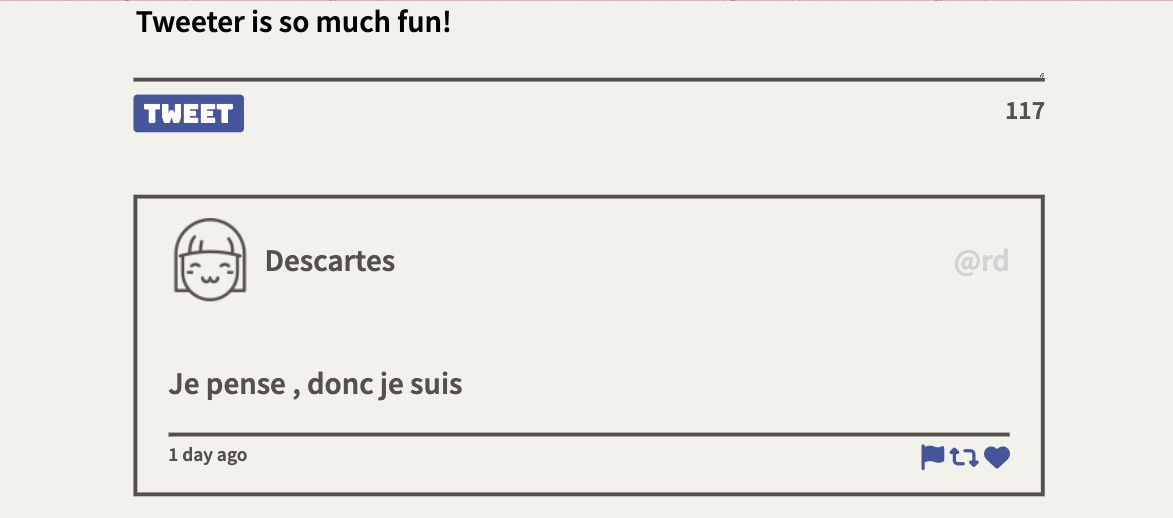
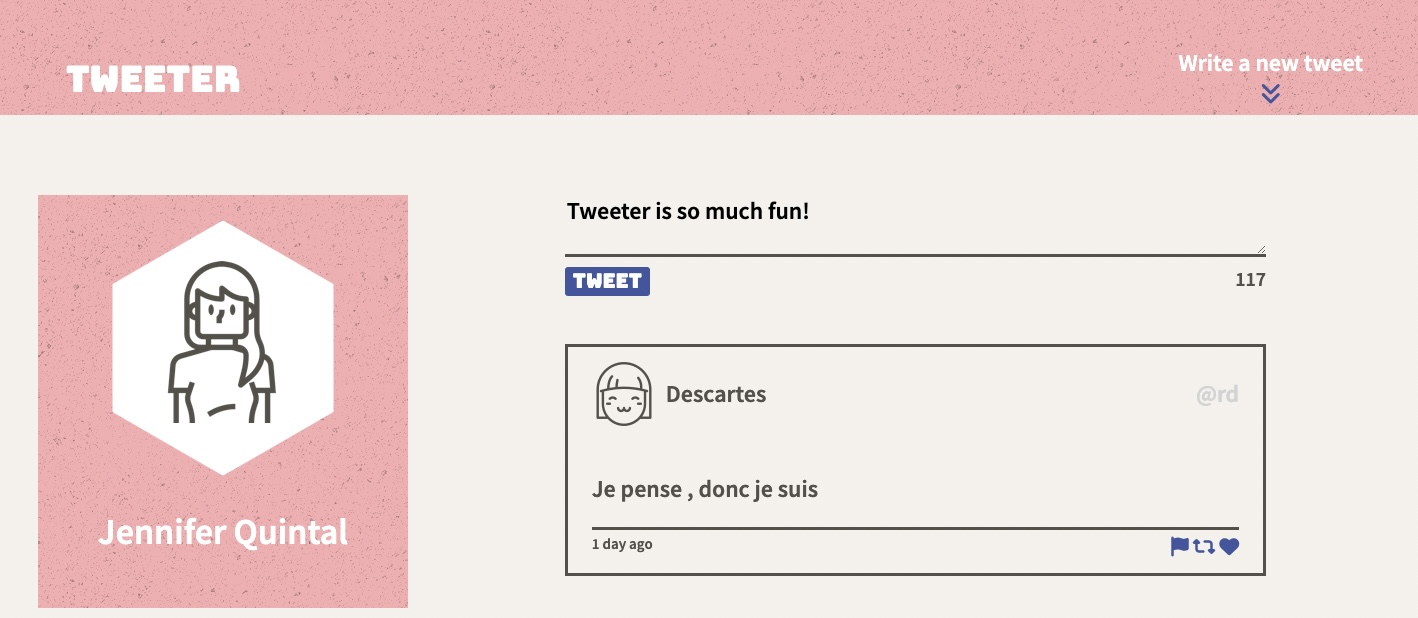
final changes with new screenshots

diff --git a/public/index.html b/public/index.html
@@ -57,8 +57,10 @@
       <span class="title">tweeter</span>
       <!-- <span class="titlenote">Write a new tweet</span> -->
       <div class="titlenote">
-        <span>Write a new tweet</span>
-        <i class="fa-solid fa-angles-down"></i>
+        <span class="write-a-new-tweet">Write a new tweet</span>
+        <button class="nav-header-button">
+          <i class="fa-solid fa-angles-down"></i>
+        </button>
       </div>
     </nav>
     <main class="main-container">
@@ -84,7 +86,9 @@
               ></textarea>
               <div id="tweet-button-count">
                 <div id="tweet-button">
-                  <button type="submit">Tweet</button>
+                  <button class="tweet-submit-button" type="submit">
+                    Tweet
+                  </button>
                 </div>
                 <div id="count">
                   <output name="counter" class="counter" for="tweet-text"

diff --git a/public/styles/layout.css b/public/styles/layout.css
@@ -19,7 +19,6 @@ html {
 body {
   color: #545149;
   background-color: #f8adb0;
-  /* font-size: 24px; */
   font-family: "Source Sans Pro", sans-serif;
 }
 
@@ -42,26 +41,25 @@ body {
   display: flex;
   justify-content: center;
   font-size: 24px;
+  width: 100%;
 }
 
 @media only screen and (min-width: 1024px) {
   .main-container {
     display: flex;
+    flex-direction: row;
+    justify-content: space-evenly;
   }
 
   .body-tweets-container {
     max-width: 65vw;
     padding: 25px;
+    padding-top: 200px;
   }
 }
 
-/* @media only screen and (min-width: 768px) and (max-width: 1024px) {
+@media only screen and (max-width: 1024px) {
   .main-container {
-    display: flex;
-    padding: 25px;
+    padding: 0;
   }
-
-  .body-tweets-container {
-    max-width: 65vw;
-  }
-} */
+}

diff --git a/public/scripts/client.js b/public/scripts/client.js
@@ -35,7 +35,7 @@ const createTweetElement = function (tweetData) {
       </div>
       <div class="handle">${tweetData.user.handle}</div>
     </header>
-    <p>${escape(tweetData.content.text)}</p>
+    <p class="tweet-words">${escape(tweetData.content.text)}</p>
     <footer class="tweet-footer">
     <div class="time-ago">${escape(ago)}</div>
       <div id="icons-footer">
@@ -114,8 +114,8 @@ $tweetForm.on("submit", (event) => {
       data: urlencoded,
       success: (response) => {
         // fetch the tweets again
-       $(".counter").text("140");
-       $("textarea").val("");
+        $(".counter").text("140");
+        $("textarea").val("");
         renderTweets();
       },
     });

diff --git a/public/styles/header.css b/public/styles/header.css
@@ -10,20 +10,21 @@
   background-image: url("https://www.transparenttextures.com/patterns/asfalt-dark.png");
   justify-content: center;
   font-size: 24px;
+  margin-left: 50px;
 }
-/* 
+
 @media only screen and (min-width: 1024px) {
   .app-header {
     display: flex;
-    width: 25vw;
     height: 95%;
+    width: 35vw;
+    margin-top: 200px;
+    padding: 25px;
   }
 }
 
-@media only screen and (min-width: 768px) and (max-width: 1024px) {
+@media only screen and (max-width: 1024px) {
   .app-header {
-    display: flex;
-    width: 25vw;
-    height: 95%;
+    margin-left: 0;
   }
-} */
+}

diff --git a/public/styles/new-tweet.css b/public/styles/new-tweet.css
@@ -22,7 +22,7 @@
   background-color: transparent;
 }
 
-button {
+.tweet-submit-button {
   background-color: #4056a1;
   color: #ffffff;
   margin: 0 auto;
@@ -32,7 +32,7 @@ button {
   font-family: "Bungee", cursive;
 }
 
-button:hover {
+.tweet-submit-button:hover {
   opacity: 0.7;
   background-color: #f8adb0;
   border-color: #f8adb0;
@@ -46,4 +46,8 @@ button:hover {
 #error-message {
   display: none;
   color: red;
+}
+
+.tweet-words {
+  word-break: break-word;
 }

diff --git a/public/styles/nav.css b/public/styles/nav.css
@@ -6,7 +6,6 @@ nav {
   padding-right: 1.5em;
   align-items: center;
   position: fixed;
-  align-content: center;
   display: flex;
   justify-content: space-between;
   width: 100%;
@@ -31,4 +30,13 @@ nav {
 
 nav .titlenote i {
   color: #4056a1;
+}
+
+.nav-header-button {
+  background-color: transparent;
+  border-color: transparent;
+}
+
+.write-a-new-tweet {
+  text-align: center;
 }

diff --git a/public/styles/tweets-container.css b/public/styles/tweets-container.css
@@ -61,3 +61,14 @@
 .tweet .time-ago {
   font-size: 15px;
 }
+
+/* @media only screen and (min-width: 768px) and (max-width: 1024px) {
+  #tweets-container {
+    width: 65vw;
+  } */
+
+/* .body-tweets-container {
+    width: 65vw;
+    padding-top: 200px;
+    margin-top: 200px;
+  } }*/

diff --git a/README.md b/README.md
@@ -7,6 +7,7 @@ This repository is a front-end single-page website using HTML, CSS, JS, jQuery, 
 ## Final Product
 
 !["Screenshot of full page"](https://github.com/quinjenn/tweeter/blob/master/docs/tweeter-full-page.png)
+!["Screenshot of full mobile page"](https://github.com/quinjenn/tweeter/blob/master/docs/tweeter-full-page-mobile.png)
 !["Screenshot of Tweet text page"](https://github.com/quinjenn/tweeter/blob/master/docs/tweet-text.png)
 !["Screenshot of Tweet response page"](https://github.com/quinjenn/tweeter/blob/master/docs/tweet-response.png)
 
